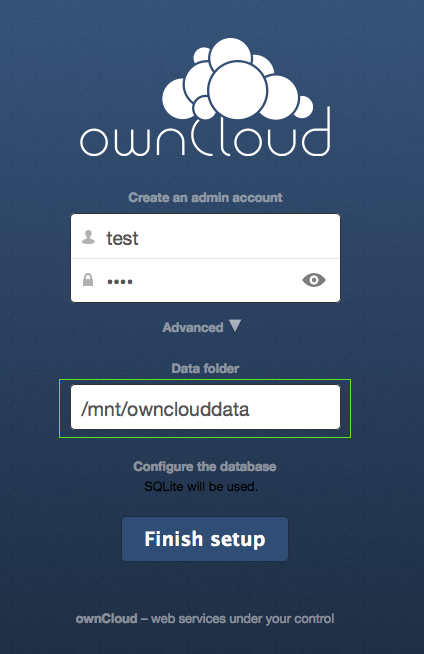
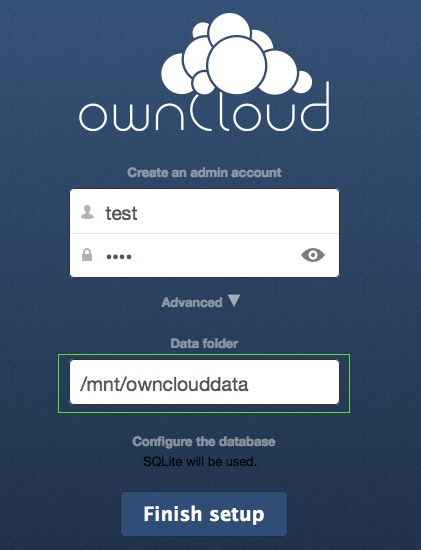
manuals final review

diff --git a/manuals/mailserver/sections/04_mailserveraufsetzen.tex b/manuals/mailserver/sections/04_mailserveraufsetzen.tex
@@ -79,15 +79,12 @@ Als nächstes müssen alle benötigten Komponenten installiert werden.
 Diese sind:
 \begin{itemize}
 \item MySQL Server \\
-MySQL bezeichnet eine Datenbank. Das zu installierende Paket stellt eine Datenbank für die E-Mail-Benutzer und andere Einstellungen zur Verfügung.
-
+%MySQL bezeichnet eine Datenbank. Das zu installierende Paket stellt eine Datenbank für die E-Mail-Benutzer und andere Einstellungen zur Verfügung.
 % FIXME: Description
 \item Postfix \\
 % FIXME: Description
-
 \item Dovecot \\
 % FIXME: Description
-
 \end{itemize}
 
 Dovecot verlangt ein aktives IPv6-Modul. Dieses muss zur entsprechenden Liste hinzugefügt und anschliessend aktiviert werden:
@@ -237,8 +234,8 @@ virtual_transport = dovecot
 dovecot_destination_recipient_limit = 1
 \end{lstlisting}
 
+\newpage
 In dieser Datei ist auch wichtig, dass der Eintrag \textit{mydestination} nur \textit{localhost} enthält:
-
 \begin{lstlisting}
 mydestination = localhost
 \end{lstlisting}
@@ -422,7 +419,7 @@ Und legt jene dort an:
 
 \begin{figure}[H]
 \centering
-\includegraphics[scale=0.3]{images/pa-domain.png}
+\includegraphics[scale=0.6]{images/pa-domain.png}
 \caption{Postfix admin - Neue Domain}
 \end{figure}
 
@@ -434,6 +431,6 @@ Virtual Liste -> Mailbox hinzufuegen
 
 \begin{figure}[H]
 \centering
-\includegraphics[scale=0.3]{images/pa-mail.png}
+\includegraphics[scale=0.6]{images/pa-mail.png}
 \caption{Postfix admin - Neue Mailbox}
 \end{figure}

diff --git a/manuals/owncloud/sections/05_owncloudeinrichten.tex b/manuals/owncloud/sections/05_owncloudeinrichten.tex
@@ -7,8 +7,6 @@ http://192.168.1.107
 
 \subsection{Administrator-Account anlegen}
 Kann der Browser sich mit der Cloud verbinden, wird die Startseite angezeigt. ownCloud verlangt vom Benutzer bei erstmaligem Aufruf, einen Administrator-Account anzulegen. Der Administrator verwaltet die Cloud, kann wichtige Einstellungen vornehmen und Benutzer anlegen.
-\\
-\\
 Um einen Administrator-Account anzulegen, muss man lediglich den gewünschten Benutzernamen und ein Passwort definieren. Es empfiehlt sich hier einen guten, aussagekräftigen Namen zu wählen, den man sich gut merken kann. Das Passwort soll vor allen Dingen sicher sein. Natürlich ist es nur von Vorteil, wenn man es sich auch leicht merken kann.
 \\
 \\
@@ -20,7 +18,7 @@ Bevor der Account mittels Klick auf \textit{Finish Setup} erstellt wird, sollte 
 
 \begin{figure}[H]
 \centering
-\includegraphics[scale=0.5]{images/admin_setup}
+\includegraphics[scale=0.4]{images/admin_setup}
 \caption{Administrator-Account anlegen}
 \end{figure}
 

diff --git a/manuals/tor/document.tex b/manuals/tor/document.tex
@@ -35,8 +35,8 @@
 
 \begin{document}
 
-\title{TOR-Proxy einrichten - Praktisches Handbuch}
-\author{Graf Dimitri und Furrer Timo}
+\title{Tor-Proxy einrichten - Praktisches Handbuch}
+\author{Dimitri Graf und Timo Furrer}
 \date{April 2014}
 \maketitle
 

diff --git a/manuals/tor/sections/04_torproxyaufsetzen.tex b/manuals/tor/sections/04_torproxyaufsetzen.tex
@@ -103,7 +103,7 @@ iface wlan0 inet static
 
 \begin{figure}[H]
 \centering
-\includegraphics[scale=0.7]{images/network_interfaces}
+\includegraphics[scale=0.65]{images/network_interfaces.png}
 \caption{konfigurierte interfaces-Datei}
 \end{figure}
 

diff --git a/manuals/owncloud/sections/04_owncloudinstallieren.tex b/manuals/owncloud/sections/04_owncloudinstallieren.tex
@@ -33,7 +33,7 @@ sudo nano /etc/network/interfaces
 
 \begin{figure}[H]
 \centering
-\includegraphics[scale=0.6]{images/nano}
+\includegraphics[scale=0.65]{images/nano}
 \caption{Texteditor nano}
 \end{figure}
 

diff --git a/manuals/mailserver/document.tex b/manuals/mailserver/document.tex
@@ -36,7 +36,7 @@
 \begin{document}
 
 \title{Mailserver aufsetzen - Praktisches Handbuch}
-\author{Graf Dimitri und Furrer Timo}
+\author{Dimitri Graf und Timo Furrer}
 \date{April 2014}
 \maketitle
 
